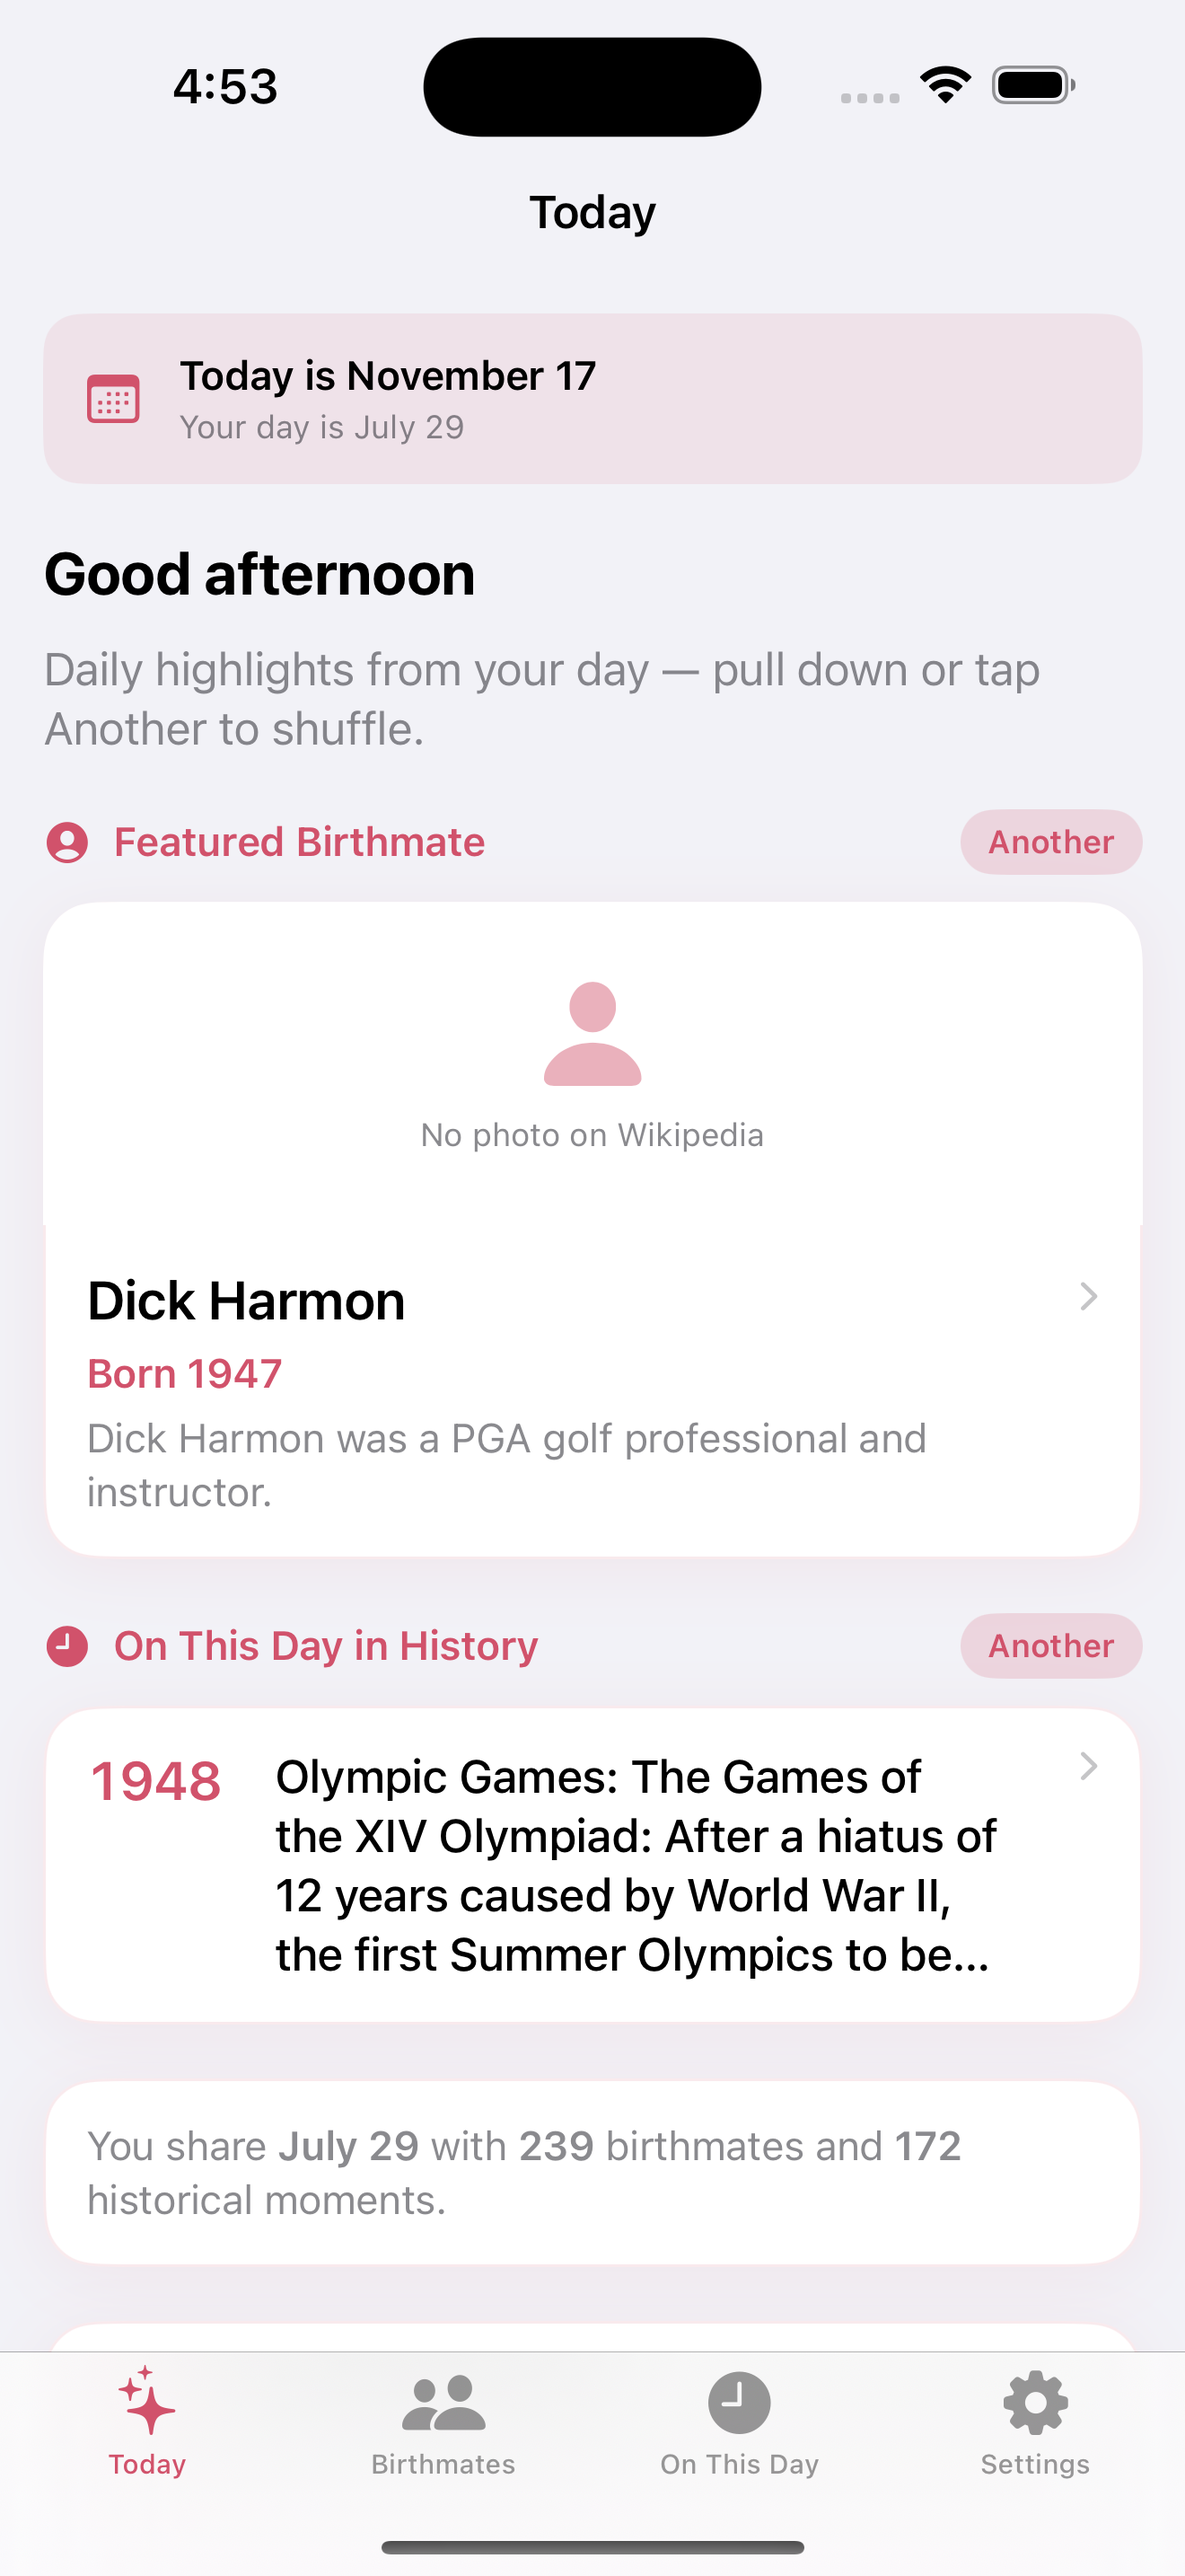
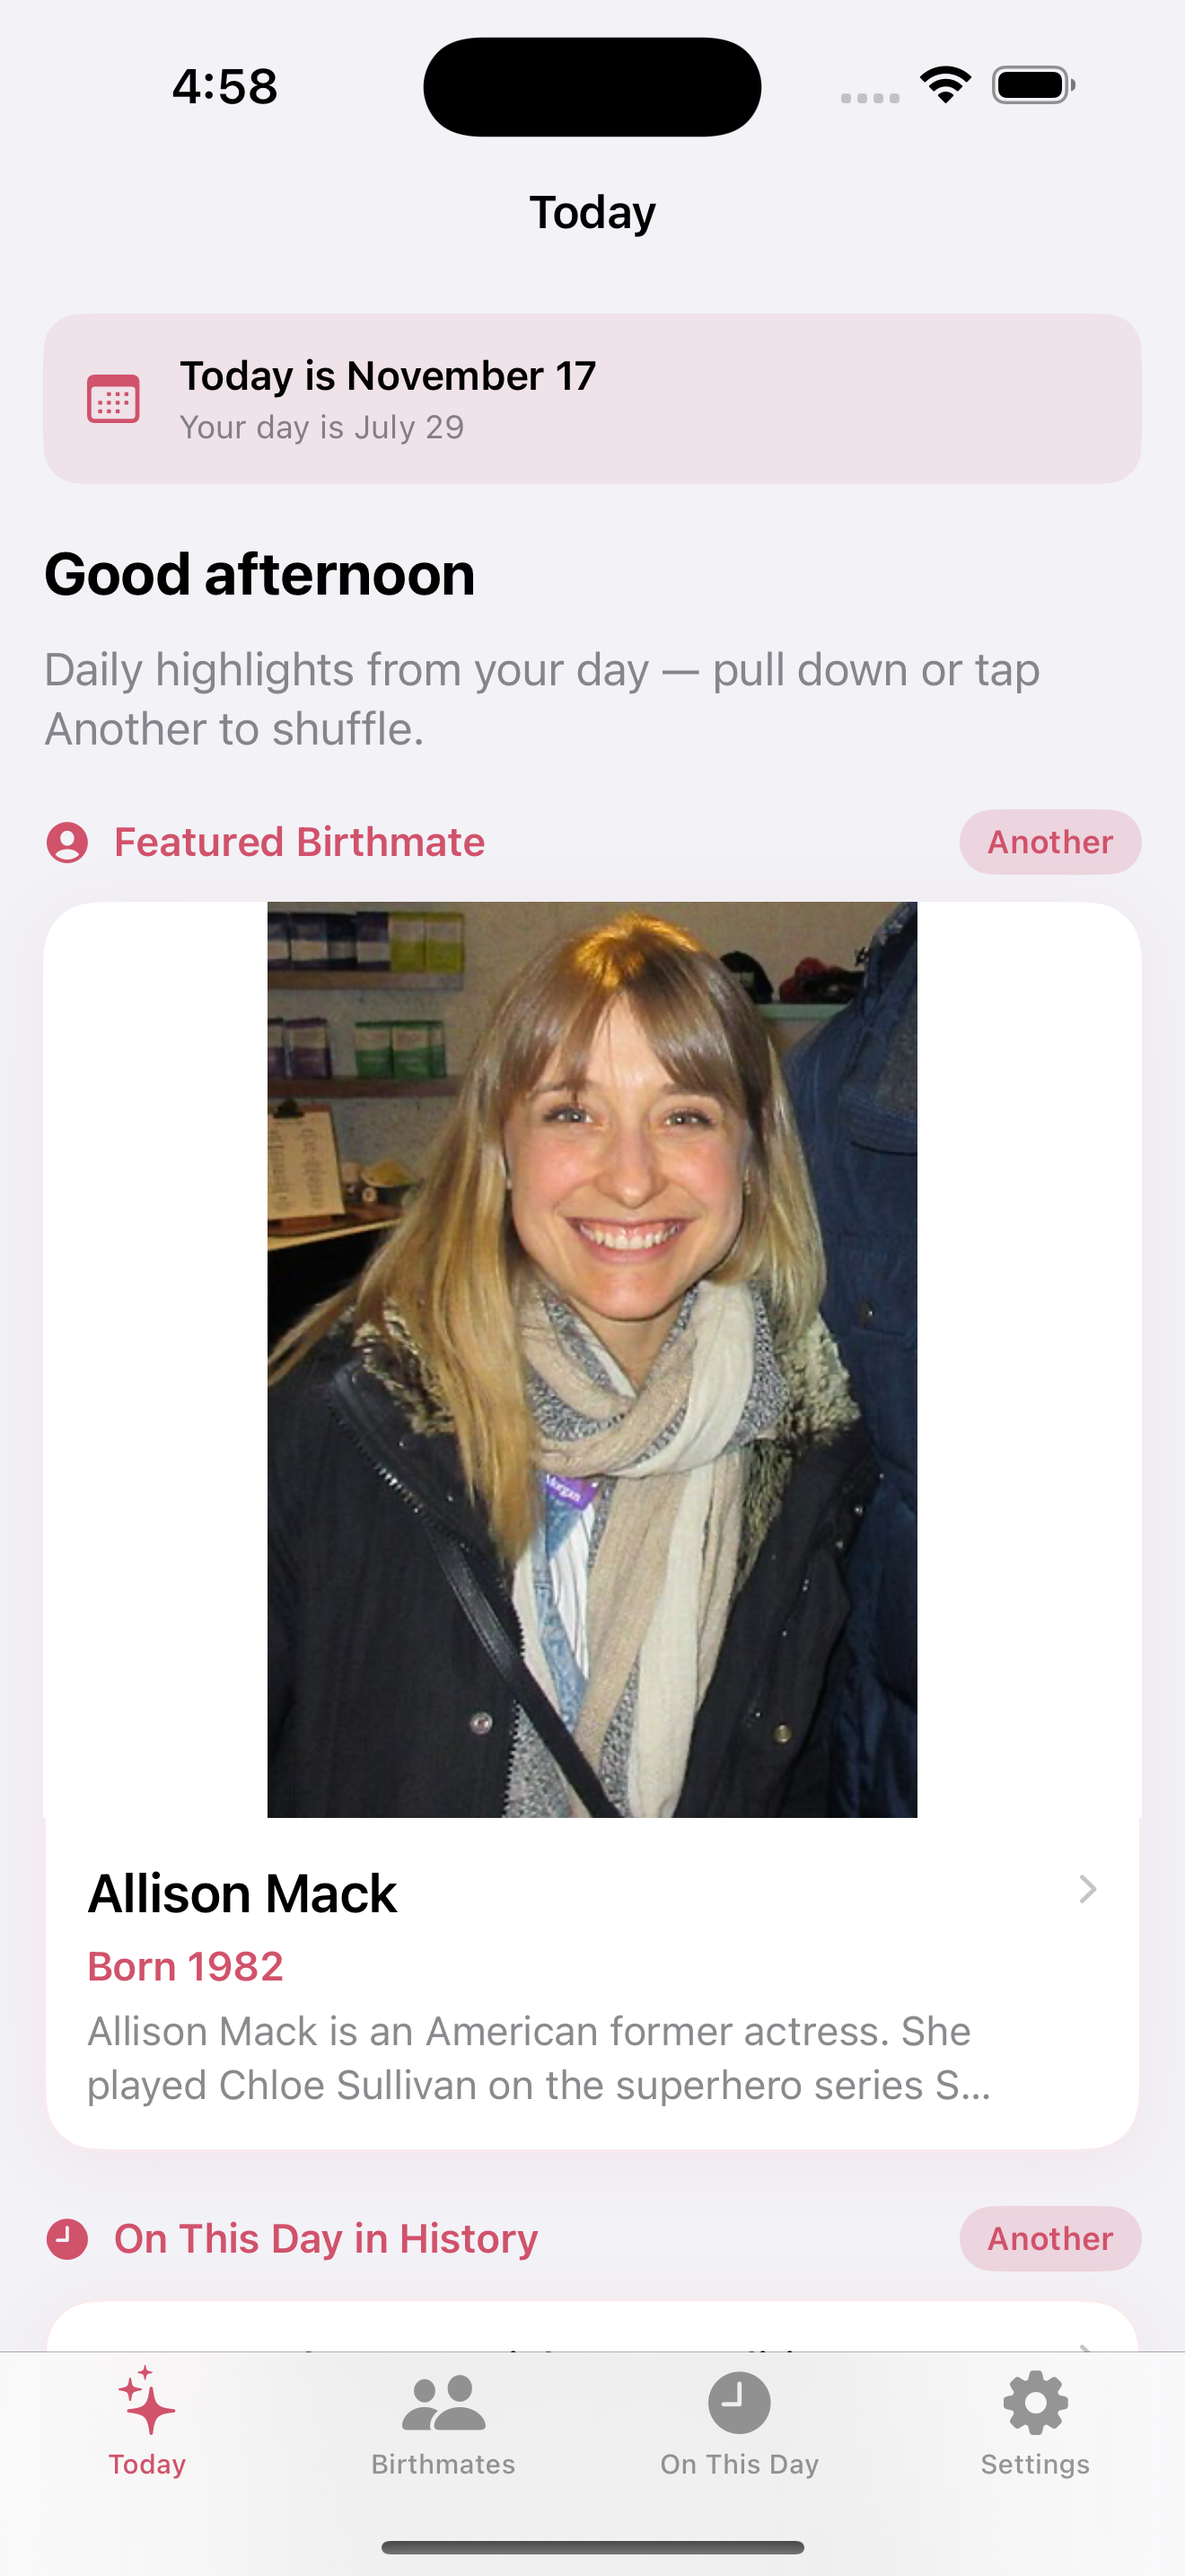
Ensure Today App Store capture shows a featured photo.
Shuffle to a birthmate with a Wikipedia thumbnail in screenshot mode, preload the hero, and add a quick 03-today recapture script.

diff --git a/Birthmate/ViewModels/TodayViewModel.swift b/Birthmate/ViewModels/TodayViewModel.swift
@@ -93,7 +93,40 @@ final class TodayViewModel: ObservableObject {
                 errorMessage = error.localizedDescription
             }
         }
+
+        #if DEBUG
+        if ScreenshotLaunchConfig.requireFeaturedPhoto {
+            await prepareFeaturedPersonForScreenshot()
+        }
+        #endif
     }
+
+    #if DEBUG
+    /// Picks a featured birthmate with a photo URL and preloads the hero image for App Store captures.
+    private func prepareFeaturedPersonForScreenshot() async {
+        pickFeaturedPersonWithPhotoURLs()
+        guard let person = featuredPerson else { return }
+        _ = await WikiPersonImageService.shared.image(
+            primaryURL: person.primaryPage?.thumbnail?.source ?? person.primaryPage?.originalImage?.source,
+            wikiTitle: person.primaryPage?.title,
+            width: 800
+        )
+    }
+
+    private func pickFeaturedPersonWithPhotoURLs() {
+        for _ in 0 ..< 80 {
+            guard let person = featuredPerson else { return }
+            if hasLikelyPhotoURL(person) { return }
+            showAnotherFeaturedPerson()
+        }
+    }
+
+    private func hasLikelyPhotoURL(_ item: OnThisDayItem) -> Bool {
+        if item.primaryPage?.thumbnail?.source != nil { return true }
+        if item.primaryPage?.originalImage?.source != nil { return true }
+        return false
+    }
+    #endif
 
     func showAnotherFeaturedPerson() {
         guard loadedMonth != nil, loadedDay != nil else { return }

diff --git a/Birthmate/Utilities/ScreenshotLaunchConfig.swift b/Birthmate/Utilities/ScreenshotLaunchConfig.swift
@@ -26,6 +26,11 @@ enum ScreenshotLaunchConfig {
         CommandLine.arguments.contains("-SkipNotificationPrompt")
     }
 
+    /// Shuffles Today’s featured birthmate until one has a Wikipedia thumbnail (screenshot automation).
+    static var requireFeaturedPhoto: Bool {
+        CommandLine.arguments.contains("-ScreenshotRequireFeaturedPhoto")
+    }
+
     static var seededBirthdate: (month: Int, day: Int)? {
         guard let arg = CommandLine.arguments.first(where: { $0.hasPrefix("-ScreenshotBirthdate=") }) else {
             return nil
